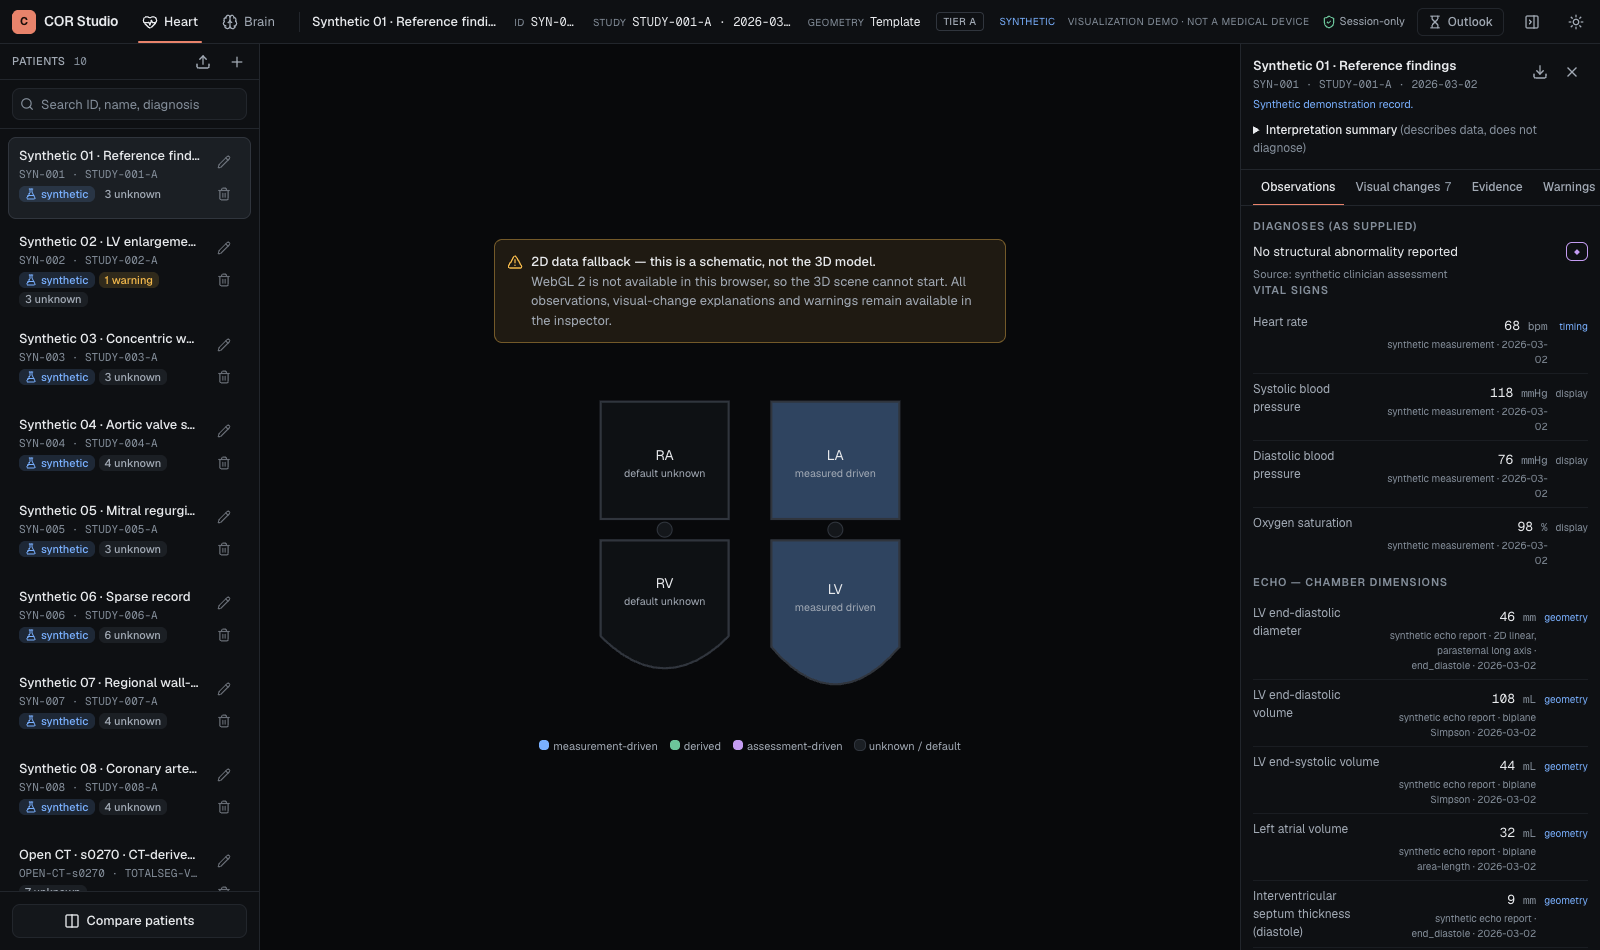
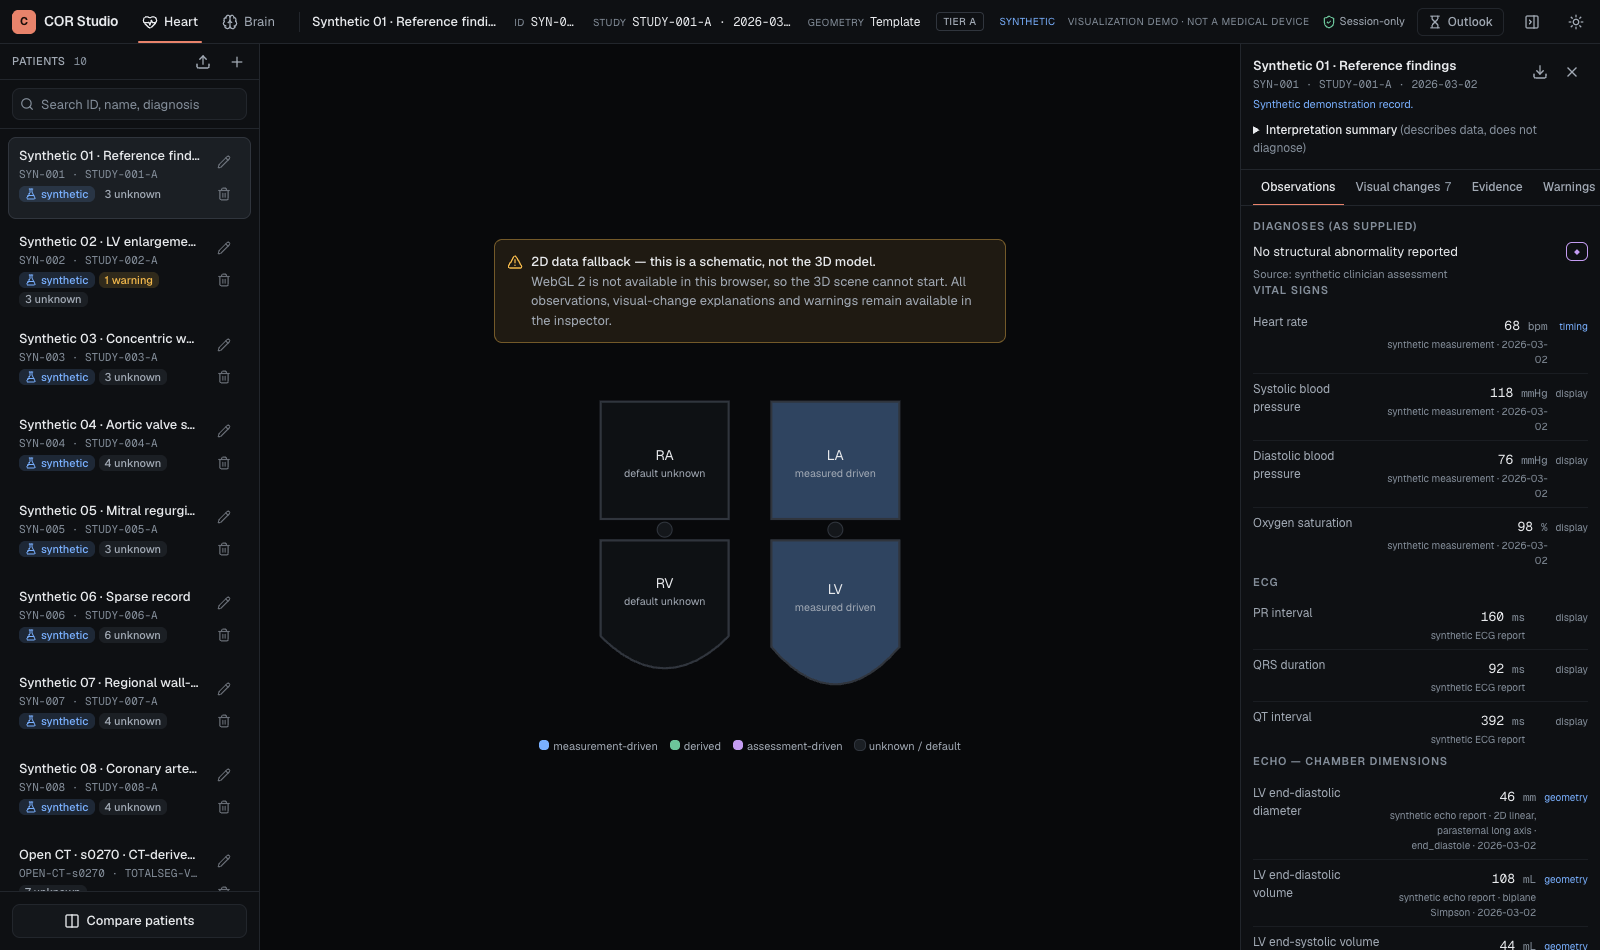
ECG strip synthesized from the record's intervals, locked to the 3D cycle
PR/QRS/QT from the record (QT also derivable from a reported QTc), labelled
population defaults otherwise (Framingham mean QT for the RR). QTc by
Bazett, Fridericia and Framingham (Sagie 1992). QRS onset placed one
Weissler pre-ejection period before aortic valve opening; QS2 shown.
Gaussian-sum morphology (McSharry 2003 form), ECG paper grid, clearly
marked 'synthesized from intervals, not a recording'. Samples SYN-001/003/
008 gain ECG intervals. docs/ecg.md.

Changed region(s): [[0.7812, 0.6105, 1.0, 1.0]]

diff --git a/src/components/workspace/EcgStrip.tsx b/src/components/workspace/EcgStrip.tsx
@@ -1,0 +1,119 @@
+"use client";
+// ECG strip synthesized from the record's intervals and locked to the 3D heart's cycle. A schematic, not a recording:
+// event times come from PR / QRS / QT (or labelled population defaults), morphology is a Gaussian-sum template.
+import { useEffect, useMemo, useRef, useState } from "react";
+import { ChevronDown, ChevronUp } from "lucide-react";
+import { ecgAt, ecgTiming, type Interval } from "@/domain/ecg";
+import type { PatientEntry } from "@/lib/patients";
+import { useApp } from "@/state/store";
+import { getClock } from "@/scene/animation/clock";
+import { cx } from "../ui/primitives";
+
+const BEATS = 2.5; // RR intervals visible
+const EV_LABEL: Record<Interval["evidence"], string> = { reported: "reported", derived: "derived", population_default: "default" };
+const EV_TONE: Record<Interval["evidence"], string> = { reported: "text-ok", derived: "text-info", population_default: "text-warn" };
+
+export function useEcgTiming(entry: PatientEntry) {
+  return useMemo(() => {
+    const p = entry.patient;
+    const v = (path: string) => (p.observations[path]?.status === "ok" ? p.observations[path].value : null);
+    return ecgTiming({
+      heartRateBpm: entry.visual.timing.heartRateBpm,
+      prMs: v("ecg.prInterval"), qrsMs: v("ecg.qrsDuration"), qtMs: v("ecg.qtInterval"), qtcMs: v("ecg.qtc"),
+      qtcMethod: (p.record.ecg as { qtcCorrectionMethod?: string } | undefined)?.qtcCorrectionMethod ?? null,
+    }, entry.visual.timing.phases);
+  }, [entry]);
+}
+
+export function EcgStrip({ entry }: { entry: PatientEntry }) {
+  const timing = useEcgTiming(entry);
+  const canvas = useRef<HTMLCanvasElement>(null);
+  const [open, setOpen] = useState(true);
+
+  useEffect(() => {
+    if (!open) return;
+    let raf = 0;
+    const draw = () => {
+      raf = requestAnimationFrame(draw);
+      const c = canvas.current;
+      if (!c) return;
+      const dpr = Math.min(2, window.devicePixelRatio || 1);
+      const w = c.clientWidth, h = c.clientHeight;
+      if (c.width !== Math.round(w * dpr)) { c.width = Math.round(w * dpr); c.height = Math.round(h * dpr); }
+      const g = c.getContext("2d")!;
+      g.setTransform(dpr, 0, 0, dpr, 0, 0);
+      g.clearRect(0, 0, w, h);
+      const s = useApp.getState();
+      const phase = s.playing ? getClock("main").phase : s.scrubPhase;
+      const css = getComputedStyle(c);
+      // ECG paper: 40 ms / 0.1 mV minor, 200 ms / 0.5 mV major squares
+      const spanS = BEATS * timing.rrS;
+      const pxPerS = w / spanS;
+      const pxPerMv = Math.min(h / 1.9, pxPerS * 0.4); // keeps the paper's 0.04 s : 0.1 mV aspect where it fits
+      const baseY = h * 0.62;
+      g.lineWidth = 1;
+      for (let ms = 0; ms <= spanS * 1000; ms += 40) {
+        g.strokeStyle = ms % 200 === 0 ? css.getPropertyValue("--ecg-major") : css.getPropertyValue("--ecg-minor");
+        const x = (ms / 1000) * pxPerS + 0.5;
+        g.beginPath(); g.moveTo(x, 0); g.lineTo(x, h); g.stroke();
+      }
+      for (let mv = -2; mv <= 2; mv += 0.1) {
+        const y = baseY - mv * pxPerMv;
+        if (y < 0 || y > h) continue;
+        g.strokeStyle = Math.abs((mv * 10) % 5) < 0.01 ? css.getPropertyValue("--ecg-major") : css.getPropertyValue("--ecg-minor");
+        g.beginPath(); g.moveTo(0, y + 0.5); g.lineTo(w, y + 0.5); g.stroke();
+      }
+      // sweep: the trace is drawn up to "now" (right edge = current phase), older beats scroll left
+      g.strokeStyle = css.getPropertyValue("--ok");
+      g.lineWidth = 1.6;
+      g.beginPath();
+      const n = Math.ceil(w);
+      for (let i = 0; i <= n; i++) {
+        const tFromNow = ((n - i) / pxPerS);
+        const ph = phase - tFromNow / timing.rrS;
+        const y = baseY - ecgAt(timing, ((ph % 1) + 1) % 1) * pxPerMv;
+        if (i === 0) g.moveTo(i, y); else g.lineTo(i, y);
+      }
+      g.stroke();
+      g.fillStyle = css.getPropertyValue("--accent");
+      g.beginPath(); g.arc(w - 2, baseY - ecgAt(timing, phase) * pxPerMv, 3, 0, Math.PI * 2); g.fill();
+    };
+    draw();
+    return () => cancelAnimationFrame(raf);
+  }, [timing, open]);
+
+  const row = (label: string, i: Interval, title?: string) => (
+    <span className="whitespace-nowrap" title={i.note ?? title}>
+      <span className="text-faint">{label}</span> <span className="num text-ink">{Math.round(i.ms)}</span><span className="text-faint"> ms</span>{" "}
+      <span className={cx("text-[9px] uppercase tracking-wide", EV_TONE[i.evidence])}>{EV_LABEL[i.evidence]}</span>
+    </span>
+  );
+  const q = timing.qtc;
+  return (
+    <div className="shrink-0 border-t border-line bg-panel" data-testid="ecg-strip">
+      <div className="flex flex-wrap items-center gap-x-4 gap-y-1 px-3 py-1 text-[11px]">
+        <button className="flex items-center gap-1 text-[10px] font-medium uppercase tracking-wider text-muted hover:text-ink" onClick={() => setOpen(!open)} aria-expanded={open}>
+          {open ? <ChevronDown className="h-3 w-3" /> : <ChevronUp className="h-3 w-3" />} ECG · lead II schematic
+        </button>
+        {row("PR", timing.pr)}
+        {row("QRS", timing.qrs)}
+        {row("QT", timing.qt)}
+        <span className="whitespace-nowrap" title="Rate-corrected QT: Bazett QT/√RR, Fridericia QT/∛RR, Framingham QT + 0.154(1 − RR) (Sagie 1992)">
+          <span className="text-faint">QTc</span> <span className="num text-ink">{Math.round(q.bazett)}</span><span className="text-faint"> Bazett · </span>
+          <span className="num text-ink">{Math.round(q.fridericia)}</span><span className="text-faint"> Fridericia · </span>
+          <span className="num text-ink">{Math.round(q.framingham)}</span><span className="text-faint"> Framingham</span>
+          {q.reported && <span className="text-faint"> (reported {q.reported.ms}{q.reported.method ? ` ${q.reported.method}` : ""})</span>}
+        </span>
+        <span className="whitespace-nowrap text-faint" title="Weissler 1968 systolic time intervals (men): PEP = 131 − 0.4·HR, QS2 = 546 − 2.1·HR. QRS onset is placed one PEP before aortic valve opening in the 3D cycle.">
+          PEP <span className="num text-muted">{Math.round(timing.pep)}</span> · QS2 <span className="num text-muted">{Math.round(timing.qs2)}</span> ms
+        </span>
+      </div>
+      {open && (
+        <div className="relative h-[86px] px-3 pb-1.5">
+          <canvas ref={canvas} className="h-full w-full rounded bg-[var(--ecg-bg)]" aria-label={`Synthesized ECG schematic: PR ${Math.round(timing.pr.ms)} ms, QRS ${Math.round(timing.qrs.ms)} ms, QT ${Math.round(timing.qt.ms)} ms, rate ${entry.visual.timing.heartRateBpm} bpm`} role="img" />
+          <span className="pointer-events-none absolute bottom-2.5 right-5 rounded bg-panel/80 px-1.5 text-[9px] uppercase tracking-wider text-faint">Synthesized from intervals · not a recording</span>
+        </div>
+      )}
+    </div>
+  );
+}

diff --git a/src/domain/ecg.ts b/src/domain/ecg.ts
@@ -1,0 +1,103 @@
+// ECG timing and a synthesized lead-II-like trace built from the record's intervals, coupled to the mechanical cycle.
+// Pure and deterministic. The trace is a schematic of the reported intervals, never a recording.
+//
+// Sources
+// - Morphology: sum of Gaussian P, Q, R, S, T events, the form used by McSharry et al. 2003 (IEEE Trans Biomed Eng
+//   50:289-94, doi:10.1109/TBME.2003.808805). Event amplitudes and widths here are illustrative; event TIMES come from
+//   the record's PR, QRS and QT when supplied.
+// - Rate correction: Bazett QTc = QT/√RR; Fridericia QTc = QT/∛RR; Framingham QTLC = QT + 0.154(1 − RR)
+//   (Sagie et al. 1992, Am J Cardiol 70:797-801, doi:10.1016/0002-9149(92)90562-d). RR in seconds.
+// - Electromechanical coupling: pre-ejection period PEP = 131 − 0.4·HR ms and QS2 = 546 − 2.1·HR ms (men; Weissler et al.
+//   1968, Circulation 37:149-59, doi:10.1161/01.cir.37.2.149), the same paper whose LVET regression sets the systole in
+//   cycle.ts. QRS onset is placed one PEP before aortic valve opening.
+
+import type { CyclePhases } from "./mapping/cycle";
+
+export type IntervalEvidence = "reported" | "derived" | "population_default";
+
+export interface Interval { ms: number; evidence: IntervalEvidence; note?: string }
+
+export interface EcgInputs {
+  heartRateBpm: number;
+  prMs?: number | null;
+  qrsMs?: number | null;
+  qtMs?: number | null;
+  qtcMs?: number | null;
+  /** Correction method the reported QTc used, if any (e.g. "Bazett"). */
+  qtcMethod?: string | null;
+}
+
+/** Population defaults used only when the record has no value (labelled as such). */
+export const ECG_DEFAULTS = { prMs: 160, qrsMs: 90, pWaveMs: 100 } as const;
+/** Framingham mean QT at RR 0.81 s was 0.35 s (men): QTLC ≈ 0.379 s, used to set a default QT for the record's RR. */
+export const FRAMINGHAM_MEAN_QTLC_S = 0.35 + 0.154 * (1 - 0.81);
+
+export const qtcBazett = (qtMs: number, rrS: number) => qtMs / Math.sqrt(rrS);
+export const qtcFridericia = (qtMs: number, rrS: number) => qtMs / Math.cbrt(rrS);
+export const qtcFramingham = (qtMs: number, rrS: number) => qtMs + 154 * (1 - rrS);
+export const pepMs = (hr: number) => 131 - 0.4 * hr;
+export const qs2Ms = (hr: number) => 546 - 2.1 * hr;
+
+export interface EcgTiming {
+  rrS: number;
+  pr: Interval;
+  qrs: Interval;
+  qt: Interval;
+  qtc: { bazett: number; fridericia: number; framingham: number; reported: { ms: number; method: string | null } | null };
+  pep: number;
+  qs2: number;
+  /** Position of QRS onset in the mechanical cycle (fraction of RR, 0 = end-diastole / mitral closure). */
+  qrsOnsetPhase: number;
+  /** Gaussian events in seconds after QRS onset: centre, sigma, amplitude (mV, illustrative). */
+  events: { name: "P" | "Q" | "R" | "S" | "T"; t: number; sigma: number; amp: number }[];
+}
+
+export function ecgTiming(inp: EcgInputs, phases: CyclePhases): EcgTiming {
+  const rrS = 60 / inp.heartRateBpm;
+  const rep = (v: number | null | undefined, fallback: number, note?: string): Interval =>
+    v != null && Number.isFinite(v) ? { ms: v, evidence: "reported" } : { ms: fallback, evidence: "population_default", note };
+  const pr = rep(inp.prMs, ECG_DEFAULTS.prMs, "Typical adult PR, not this patient");
+  const qrs = rep(inp.qrsMs, ECG_DEFAULTS.qrsMs, "Typical adult QRS, not this patient");
+  let qt: Interval;
+  if (inp.qtMs != null) qt = { ms: inp.qtMs, evidence: "reported" };
+  else if (inp.qtcMs != null) {
+    // invert the reported correction (Bazett unless another method is named)
+    const m = (inp.qtcMethod ?? "Bazett").toLowerCase();
+    const ms = m.startsWith("frid") ? inp.qtcMs * Math.cbrt(rrS) : m.startsWith("fram") ? inp.qtcMs - 154 * (1 - rrS) : inp.qtcMs * Math.sqrt(rrS);
+    qt = { ms, evidence: "derived", note: `From the reported QTc (${inp.qtcMethod ?? "Bazett assumed"}) at this RR` };
+  } else {
+    qt = { ms: 1000 * (FRAMINGHAM_MEAN_QTLC_S - 0.154 * (1 - rrS)), evidence: "population_default", note: "Framingham mean for this RR (Sagie 1992), not this patient" };
+  }
+  const pep = pepMs(inp.heartRateBpm);
+  const s = (ms: number) => ms / 1000;
+  const q = s(qrs.ms), t = s(qt.ms);
+  const tSigma = Math.max(0.03, 0.18 * t * 0.5);
+  const events: EcgTiming["events"] = [
+    { name: "P", t: -s(pr.ms) + s(ECG_DEFAULTS.pWaveMs) / 2, sigma: s(ECG_DEFAULTS.pWaveMs) / 5, amp: 0.15 },
+    { name: "Q", t: 0.15 * q, sigma: q / 10, amp: -0.12 },
+    { name: "R", t: 0.42 * q, sigma: q / 9, amp: 1.1 },
+    { name: "S", t: 0.72 * q, sigma: q / 10, amp: -0.28 },
+    // T ends ~2.5 sigma after its peak; the QT ends there
+    { name: "T", t: t - 2.5 * tSigma, sigma: tSigma, amp: 0.32 },
+  ];
+  // aortic valve opens at phases.ivcEnd; QRS onset precedes it by the PEP
+  const qrsOnsetPhase = (((phases.ivcEnd * rrS - s(pep)) / rrS) % 1 + 1) % 1;
+  return {
+    rrS, pr, qrs, qt, pep, qs2: qs2Ms(inp.heartRateBpm), qrsOnsetPhase, events,
+    qtc: {
+      bazett: qtcBazett(qt.ms, rrS), fridericia: qtcFridericia(qt.ms, rrS), framingham: qtcFramingham(qt.ms, rrS),
+      reported: inp.qtcMs != null ? { ms: inp.qtcMs, method: inp.qtcMethod ?? null } : null,
+    },
+  };
+}
+
+/** Synthesized voltage (mV, illustrative scale) at a cycle phase (0..1 of RR). Sums neighbouring beats so waves wrap. */
+export function ecgAt(timing: EcgTiming, phase: number): number {
+  const tq = (phase - timing.qrsOnsetPhase) * timing.rrS; // seconds after this beat's QRS onset
+  let v = 0;
+  for (const k of [-1, 0, 1]) {
+    const t = tq + k * timing.rrS;
+    for (const e of timing.events) v += e.amp * Math.exp(-((t - e.t) ** 2) / (2 * e.sigma ** 2));
+  }
+  return v;
+}

diff --git a/tests/unit/ecg.test.ts b/tests/unit/ecg.test.ts
@@ -1,0 +1,49 @@
+import { describe, expect, it } from "vitest";
+import { cyclePhases } from "@/domain/mapping/cycle";
+import { ecgAt, ecgTiming, pepMs, qtcBazett, qtcFramingham, qtcFridericia } from "@/domain/ecg";
+
+describe("QT rate correction", () => {
+  it("matches the published formulas", () => {
+    expect(qtcBazett(400, 1)).toBe(400);
+    expect(qtcBazett(392, 0.81)).toBeCloseTo(392 / 0.9, 6);
+    expect(qtcFridericia(392, 0.729)).toBeCloseTo(392 / 0.9, 6);
+    expect(qtcFramingham(350, 0.81)).toBeCloseTo(350 + 154 * 0.19, 6); // Sagie 1992
+  });
+});
+
+describe("ECG timing", () => {
+  const hr = 71;
+  const phases = cyclePhases(hr);
+
+  it("uses the record's intervals and marks them reported", () => {
+    const t = ecgTiming({ heartRateBpm: hr, prMs: 168, qrsMs: 96, qtMs: 392 }, phases);
+    expect([t.pr.evidence, t.qrs.evidence, t.qt.evidence]).toEqual(["reported", "reported", "reported"]);
+    expect(t.qtc.bazett).toBeCloseTo(392 / Math.sqrt(60 / 71), 6);
+  });
+
+  it("derives QT from a reported QTc and falls back to labelled population defaults", () => {
+    const d = ecgTiming({ heartRateBpm: hr, qtcMs: 426, qtcMethod: "Bazett" }, phases);
+    expect(d.qt.evidence).toBe("derived");
+    expect(d.qtc.bazett).toBeCloseTo(426, 6);
+    const p = ecgTiming({ heartRateBpm: hr }, phases);
+    expect([p.pr.evidence, p.qrs.evidence, p.qt.evidence]).toEqual(["population_default", "population_default", "population_default"]);
+  });
+
+  it("places QRS onset one pre-ejection period before aortic valve opening", () => {
+    const t = ecgTiming({ heartRateBpm: hr }, phases);
+    const avoS = phases.ivcEnd * t.rrS;
+    const qS = t.qrsOnsetPhase * t.rrS;
+    const gap = ((avoS - qS) % t.rrS + t.rrS) % t.rrS;
+    expect(gap * 1000).toBeCloseTo(pepMs(hr), 6);
+  });
+
+  it("peaks at the R wave, and the T wave ends at the QT", () => {
+    const t = ecgTiming({ heartRateBpm: hr, prMs: 168, qrsMs: 96, qtMs: 392 }, phases);
+    let best = 0, bestV = -Infinity;
+    for (let i = 0; i < 2000; i++) { const v = ecgAt(t, i / 2000); if (v > bestV) { bestV = v; best = i / 2000; } }
+    const rS = ((best - t.qrsOnsetPhase + 1) % 1) * t.rrS;
+    expect(rS * 1000).toBeCloseTo(0.42 * 96, -1);
+    const tEnd = t.qrsOnsetPhase + 0.392 / t.rrS;
+    expect(Math.abs(ecgAt(t, tEnd % 1))).toBeLessThan(0.02);
+  });
+});

diff --git a/tests/e2e/ecg.spec.ts b/tests/e2e/ecg.spec.ts
@@ -1,0 +1,24 @@
+import { expect, test } from "@playwright/test";
+import path from "node:path";
+
+const shots = path.resolve(__dirname, "../../docs/visual-review");
+
+test("ECG strip: intervals with their provenance, rate-corrected QT, locked to the 3D cycle", async ({ page }) => {
+  const errors: string[] = [];
+  page.on("pageerror", (e) => errors.push(e.message));
+  await page.goto("/");
+  await page.getByRole("button", { name: /^Synthetic 01/ }).click();
+  const strip = page.getByTestId("ecg-strip");
+  await expect(strip).toContainText("PR 160 ms reported");
+  await expect(strip).toContainText("QT 392 ms reported");
+  await expect(strip).toContainText("417 Bazett"); // 392 / √(60/68)
+  await expect(strip).toContainText("not a recording");
+
+  // a record without intervals: labelled population defaults, never presented as the patient's
+  await page.getByRole("button", { name: /^Synthetic 02/ }).click();
+  await expect(strip).toContainText("PR 160 ms default");
+  await expect(strip).toContainText(/QT \d+ ms default/);
+  await page.waitForTimeout(800);
+  await strip.screenshot({ path: `${shots}/e2e-ecg-strip.png` });
+  expect(errors).toEqual([]);
+});

diff --git a/src/components/workspace/HeartViewport.tsx b/src/components/workspace/HeartViewport.tsx
@@ -14,6 +14,7 @@ import { Legend } from "./Legend";
 import { GeometryBadge } from "./GeometryBadge";
 import { CtEvidencePanel } from "./CtEvidencePanel";
 import { HeartMetrics } from "./HeartMetrics";
+import { EcgStrip } from "./EcgStrip";
 
 const HeartCanvas = dynamic(() => import("@/scene/HeartCanvas"), { ssr: false });
 
@@ -84,6 +85,7 @@ export function HeartViewport() {
           </div>
         </div>
         <HeartMetrics entry={entry} spec={spec} />
+        <EcgStrip entry={entry} />
         <PlaybackBar />
       </div>
       {spec.manifest.imaging && <CtEvidencePanel spec={spec} />}

diff --git a/src/app/globals.css b/src/app/globals.css
@@ -18,6 +18,9 @@
   --error: #f0736a;
   --info: #79b0ff;
   --ok: #6cc59b;
+  --ecg-bg: #0b0f0d;
+  --ecg-minor: rgb(108 197 155 / 0.07);
+  --ecg-major: rgb(108 197 155 / 0.18);
   --measured: #79b0ff;
   --assessed: #c49cf2;
   --derived: #6cc59b;
@@ -43,6 +46,9 @@
   --error: #c23b30;
   --info: #1f63c9;
   --ok: #1d7f52;
+  --ecg-bg: #fff8f6;
+  --ecg-minor: rgb(220 90 80 / 0.12);
+  --ecg-major: rgb(220 90 80 / 0.3);
   --measured: #1f63c9;
   --assessed: #7a3fc0;
   --derived: #1d7f52;

diff --git a/docs/ecg.md b/docs/ecg.md
@@ -1,0 +1,22 @@
+# ECG strip and heartbeat timing
+
+The heart view shows a **lead-II-like ECG schematic** under the metrics. It is synthesized from the record's intervals
+and locked to the 3D heart's cycle. It is not a recording. Supplied waveform samples are still plotted as they are,
+in the inspector.
+
+| What | How | Source |
+|---|---|---|
+| Rate | Heart rate from the record sets RR = 60/HR | record |
+| Systole length | LVET = 413 − 1.7·HR ms (already used by `cycle.ts`) | Weissler 1968, [doi](https://doi.org/10.1161/01.cir.37.2.149) |
+| Electromechanical coupling | QRS onset is placed one pre-ejection period (PEP = 131 − 0.4·HR ms) before aortic valve opening; QS2 = 546 − 2.1·HR ms is shown for comparison with QT | Weissler 1968 (men) |
+| PR, QRS, QT | From the record (`ecg.prInterval`, `ecg.qrsDuration`, `ecg.qtInterval`); QT can also come from a reported QTc by inverting its stated correction | record |
+| Missing intervals | Shown as **default**: PR 160 ms and QRS 90 ms (typical adult values); QT = Framingham mean for this RR, 0.379 − 0.154(1 − RR) s | Sagie 1992, [doi](https://doi.org/10.1016/0002-9149(92)90562-d) |
+| QTc | Bazett QT/√RR, Fridericia QT/∛RR, Framingham QT + 0.154(1 − RR) | Bazett 1920; Fridericia 1920; Sagie 1992 |
+| Morphology | Sum of Gaussian P, Q, R, S, T events, the form of the McSharry 2003 dynamical ECG model; amplitudes and widths are illustrative | McSharry 2003, [doi](https://doi.org/10.1109/TBME.2003.808805) |
+
+Each interval carries a badge: **reported**, **derived** (from the reported QTc) or **default**. The grid is ECG paper:
+40 ms / 0.1 mV minor squares and 200 ms / 0.5 mV major squares. The trace sweeps with the same clock as the 3D heart,
+including pause and the phase scrubber.
+
+Not modelled: axis, ST/T morphology, conduction abnormalities, arrhythmia and heart-rate variability. A rhythm or
+ST statement in the record is shown as text only.
